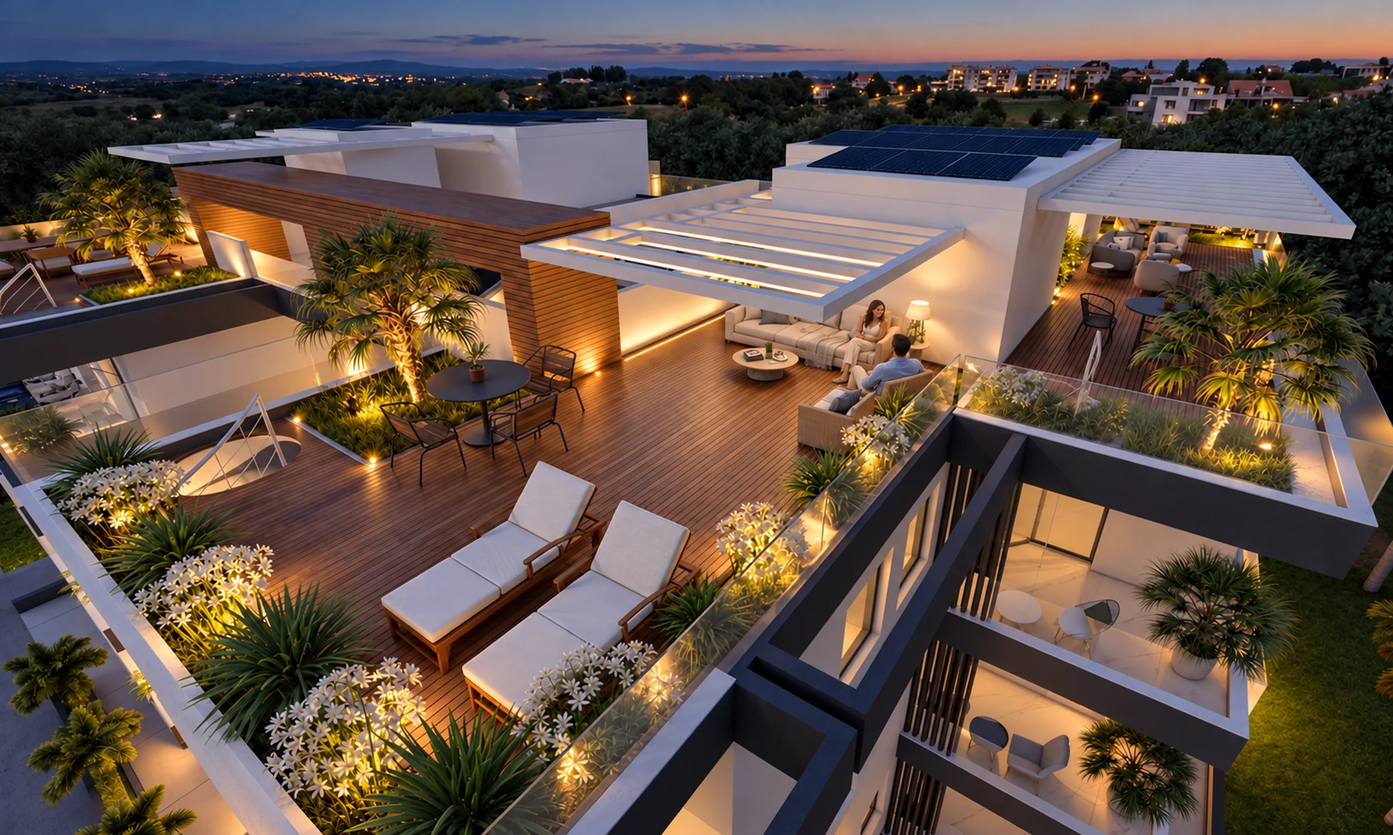
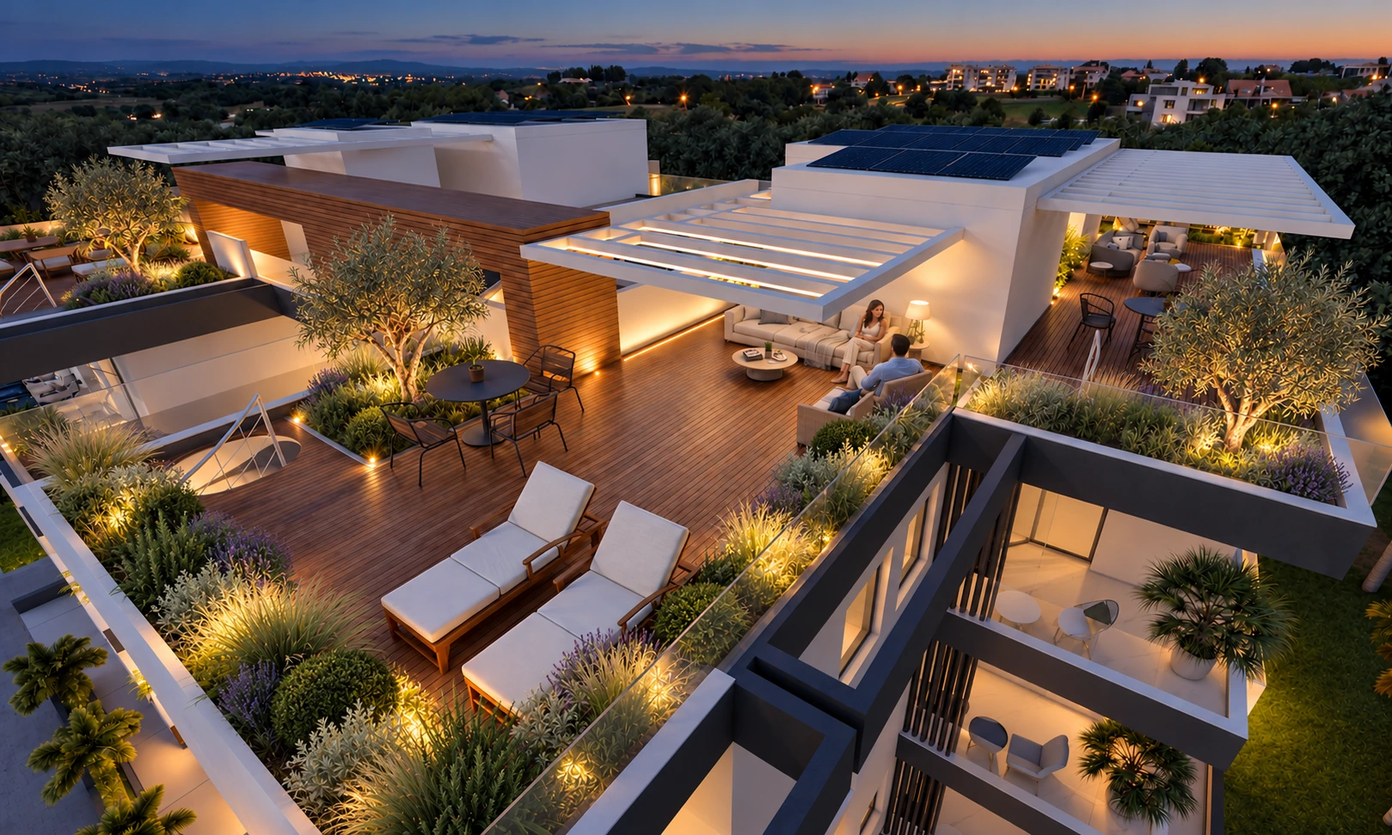
Finalize ADMA roof garden with modern planting and two seated residents

diff --git a/apertis/owner/adma-2402/index.html b/apertis/owner/adma-2402/index.html
@@ -3,7 +3,7 @@
     <h1>ADMA 2402, seen<br>a little differently.</h1>
     <p class="intro">Two enhanced views. Three new frames. A glimpse of how your project could be presented — in images, and in one easy-to-share link.</p>
     <div class="nav-note"><span class="muted">Drag the line to compare</span><a href="#presentation">Explore the presentation idea</a></div>
-    </header><p class="owner-nav"><a href="/apertis/owner/review-2026-10-14/">Все 10 проектов</a></p><div class="cases"><figure><div class="cmp" style="--ar:1920/1023" role="slider" tabindex="0" aria-label="Frontal exterior and ADMA 2402 fence" aria-valuemin="0" aria-valuemax="100" aria-valuenow="50"><img src="/apertis/assets/261014-ten/adma-2402/01-before.webp" width="1920" height="1023" alt="Frontal exterior and ADMA 2402 fence — Original" class="cmp-img cmp-before"><img src="/apertis/assets/261014-ten/adma-2402/01-after.webp?v=3f0b83cb33d7" width="1717" height="916" alt="Frontal exterior and ADMA 2402 fence — APERTIS" class="cmp-img cmp-after"><span class="cmp-line"><span class="cmp-grip">│</span></span></div><div class="comparison-labels"><span>Original</span><span class="notranslate" translate="no">APERTIS</span></div><figcaption class="caption"><span>Frontal exterior with original ADMA 2402 fence inscription</span><a class="meta" href="/apertis/assets/261014-ten/adma-2402/01-after.jpg?v=9a7d06924ca1" download>Download <span class="notranslate" translate="no">APERTIS</span> · JPG</a></figcaption></figure><figure><div class="cmp" style="--ar:1920/1150" role="slider" tabindex="0" aria-label="Roof terrace — high-angle view" aria-valuemin="0" aria-valuemax="100" aria-valuenow="50"><img src="/apertis/assets/261014-ten/adma-2402/02-before.webp?v=dd2425661433" width="1920" height="1150" alt="Roof terrace — high-angle view — Original" class="cmp-img cmp-before"><img src="/apertis/assets/261014-ten/adma-2402/02-after.webp?v=23255c18ee86" width="1620" height="971" alt="Roof terrace — high-angle view — APERTIS" class="cmp-img cmp-after"><span class="cmp-line"><span class="cmp-grip">│</span></span></div><div class="comparison-labels"><span>Original</span><span class="notranslate" translate="no">APERTIS</span></div><figcaption class="caption"><span>Roof terrace, distinct official high-angle exterior view</span><a class="meta" href="/apertis/assets/261014-ten/adma-2402/02-after.jpg?v=8b7cb5387223" download>Download <span class="notranslate" translate="no">APERTIS</span> · JPG</a></figcaption></figure></div><section class="section" id="new-frames"><div class="section-head"><div><span class="section-no">01 / Beyond the main view</span><h2>More of the story.</h2></div><p>Closer frames developed from your project references. <span class="mobile-hint">Swipe to explore. </span>Open a frame for a closer look.</p></div><div class="story-grid"><button class="story" data-full="/apertis/assets/261014-ten/adma-2402/frame-01.webp" data-caption="Coffee on a palm-framed balcony in the last warm light of the day."><img src="/apertis/assets/261014-ten/adma-2402/frame-01.webp" width="1536" height="1024" alt="Coffee on a palm-framed balcony in the last warm light of the day." loading="lazy"><span>Coffee on a palm-framed balcony in the last warm light of the day.</span><small>Lifestyle study</small></button><button class="story" data-full="/apertis/assets/261014-ten/adma-2402/frame-02.webp" data-caption="Warm light brings out the grain and rhythm of the timber frontage."><img src="/apertis/assets/261014-ten/adma-2402/frame-02.webp" width="1536" height="1024" alt="Warm light brings out the grain and rhythm of the timber frontage." loading="lazy"><span>Warm light brings out the grain and rhythm of the timber frontage.</span><small>Architectural detail</small></button><button class="story" data-full="/apertis/assets/261014-ten/adma-2402/frame-03.webp" data-caption="An evening walk beside the layered planting at the street edge."><img src="/apertis/assets/261014-ten/adma-2402/frame-03.webp" width="1536" height="1024" alt="An evening walk beside the layered planting at the street edge." loading="lazy"><span>An evening walk beside the layered planting at the street edge.</span><small>Lifestyle study</small></button></div><p class="footnote">Image studies: new framings, light and everyday details. Based on the project references; final marketing use follows developer review.</p></section><section class="section" id="presentation"><div class="demo-feature"><div class="demo-copy"><span class="section-no">02 / Make the images easy to share</span><h2>One project.<br>One link to send.</h2><p>Keep images, plans and project details together under your brand. Buyers can open the whole presentation on their phone and forward it in WhatsApp.</p><a class="button" href="/apertis/owner/adma-2402/presentation/">Open the ADMA 2402 example</a><span class="meta">A working preview using existing project materials</span></div><a class="demo-window" href="/apertis/owner/adma-2402/presentation/" aria-label="Open the working ADMA 2402 project presentation"><div class="window-top"><span>ADMA Development</span><span>Project presentation</span></div><div class="window-title">ADMA 2402</div><p class="window-sub">Images · Project details</p><img src="/apertis/assets/261014-ten/adma-2402/01-after.webp?v=3f0b83cb33d7" width="1717" height="916" alt="ADMA 2402 — APERTIS" class="window-hero" loading="lazy"><div class="window-bottom"><span>Explore the spaces</span><span>Project details</span><span>Share one link</span></div></a></div></section><section class="section" id="packages"><div class="section-head"><div><span class="section-no">03 / Take the next step</span><h2>Stronger images.<br>A complete presentation.</h2></div><p>These studies are our introduction. A page for finished materials. Better images for existing sales channels. Or the complete image and presentation kit.</p></div>
+    </header><p class="owner-nav"><a href="/apertis/owner/review-2026-10-14/">Все 10 проектов</a></p><div class="cases"><figure><div class="cmp" style="--ar:1920/1023" role="slider" tabindex="0" aria-label="Frontal exterior and ADMA 2402 fence" aria-valuemin="0" aria-valuemax="100" aria-valuenow="50"><img src="/apertis/assets/261014-ten/adma-2402/01-before.webp" width="1920" height="1023" alt="Frontal exterior and ADMA 2402 fence — Original" class="cmp-img cmp-before"><img src="/apertis/assets/261014-ten/adma-2402/01-after.webp?v=3f0b83cb33d7" width="1717" height="916" alt="Frontal exterior and ADMA 2402 fence — APERTIS" class="cmp-img cmp-after"><span class="cmp-line"><span class="cmp-grip">│</span></span></div><div class="comparison-labels"><span>Original</span><span class="notranslate" translate="no">APERTIS</span></div><figcaption class="caption"><span>Frontal exterior with original ADMA 2402 fence inscription</span><a class="meta" href="/apertis/assets/261014-ten/adma-2402/01-after.jpg?v=9a7d06924ca1" download>Download <span class="notranslate" translate="no">APERTIS</span> · JPG</a></figcaption></figure><figure><div class="cmp" style="--ar:1920/1150" role="slider" tabindex="0" aria-label="Roof terrace — high-angle view" aria-valuemin="0" aria-valuemax="100" aria-valuenow="50"><img src="/apertis/assets/261014-ten/adma-2402/02-before.webp?v=dd2425661433" width="1920" height="1150" alt="Roof terrace — high-angle view — Original" class="cmp-img cmp-before"><img src="/apertis/assets/261014-ten/adma-2402/02-after.webp?v=892a5704fb86" width="1619" height="971" alt="Roof terrace — high-angle view — APERTIS" class="cmp-img cmp-after"><span class="cmp-line"><span class="cmp-grip">│</span></span></div><div class="comparison-labels"><span>Original</span><span class="notranslate" translate="no">APERTIS</span></div><figcaption class="caption"><span>Roof terrace, distinct official high-angle exterior view</span><a class="meta" href="/apertis/assets/261014-ten/adma-2402/02-after.jpg?v=3982a829de46" download>Download <span class="notranslate" translate="no">APERTIS</span> · JPG</a></figcaption></figure></div><section class="section" id="new-frames"><div class="section-head"><div><span class="section-no">01 / Beyond the main view</span><h2>More of the story.</h2></div><p>Closer frames developed from your project references. <span class="mobile-hint">Swipe to explore. </span>Open a frame for a closer look.</p></div><div class="story-grid"><button class="story" data-full="/apertis/assets/261014-ten/adma-2402/frame-01.webp" data-caption="Coffee on a palm-framed balcony in the last warm light of the day."><img src="/apertis/assets/261014-ten/adma-2402/frame-01.webp" width="1536" height="1024" alt="Coffee on a palm-framed balcony in the last warm light of the day." loading="lazy"><span>Coffee on a palm-framed balcony in the last warm light of the day.</span><small>Lifestyle study</small></button><button class="story" data-full="/apertis/assets/261014-ten/adma-2402/frame-02.webp" data-caption="Warm light brings out the grain and rhythm of the timber frontage."><img src="/apertis/assets/261014-ten/adma-2402/frame-02.webp" width="1536" height="1024" alt="Warm light brings out the grain and rhythm of the timber frontage." loading="lazy"><span>Warm light brings out the grain and rhythm of the timber frontage.</span><small>Architectural detail</small></button><button class="story" data-full="/apertis/assets/261014-ten/adma-2402/frame-03.webp" data-caption="An evening walk beside the layered planting at the street edge."><img src="/apertis/assets/261014-ten/adma-2402/frame-03.webp" width="1536" height="1024" alt="An evening walk beside the layered planting at the street edge." loading="lazy"><span>An evening walk beside the layered planting at the street edge.</span><small>Lifestyle study</small></button></div><p class="footnote">Image studies: new framings, light and everyday details. Based on the project references; final marketing use follows developer review.</p></section><section class="section" id="presentation"><div class="demo-feature"><div class="demo-copy"><span class="section-no">02 / Make the images easy to share</span><h2>One project.<br>One link to send.</h2><p>Keep images, plans and project details together under your brand. Buyers can open the whole presentation on their phone and forward it in WhatsApp.</p><a class="button" href="/apertis/owner/adma-2402/presentation/">Open the ADMA 2402 example</a><span class="meta">A working preview using existing project materials</span></div><a class="demo-window" href="/apertis/owner/adma-2402/presentation/" aria-label="Open the working ADMA 2402 project presentation"><div class="window-top"><span>ADMA Development</span><span>Project presentation</span></div><div class="window-title">ADMA 2402</div><p class="window-sub">Images · Project details</p><img src="/apertis/assets/261014-ten/adma-2402/01-after.webp?v=3f0b83cb33d7" width="1717" height="916" alt="ADMA 2402 — APERTIS" class="window-hero" loading="lazy"><div class="window-bottom"><span>Explore the spaces</span><span>Project details</span><span>Share one link</span></div></a></div></section><section class="section" id="packages"><div class="section-head"><div><span class="section-no">03 / Take the next step</span><h2>Stronger images.<br>A complete presentation.</h2></div><p>These studies are our introduction. A page for finished materials. Better images for existing sales channels. Or the complete image and presentation kit.</p></div>
     <div class="offers">
     <article class="offer" data-offer="page"><span class="eyebrow muted">Present existing materials</span><div class="offer-top"><h3>Project page</h3><span class="price">€300</span></div><p>A branded presentation for images that are already ready.</p><ul><li>One ready-to-share project page</li><li>Up to 16 supplied images + 2 plans</li><li>Project details and sales contacts</li><li>Image enhancement is not included</li></ul><a class="button secondary" href="mailto:apertis@a510.space?subject=ADMA%202402%20%E2%80%94%20Project%20page%20%E2%80%94%20%E2%82%AC300&amp;body=Hello%20APERTIS%2C%0A%0AWe%20would%20like%20to%20request%20the%20Project%20page%20package%20%28%E2%82%AC300%29%20for%3A%0AProject%3A%0ANumber%20of%20images%20%28if%20different%20from%20the%20package%29%3A%0ALink%20to%20images%20and%20plans%3A%0ABrand%20and%20contact%20details%3A%0A%0APlease%20confirm%20source%20suitability%2C%20delivery%20date%20and%20payment%20instructions.">Create a project page</a></article>
     <article class="offer main" data-offer="images"><span class="eyebrow muted">Improve existing renders</span><div class="offer-top"><h3>Image enhancement</h3><span class="price">€900</span></div><p>10 existing views, improved with better light, materials and atmosphere. The project’s architecture stays intact.</p><ul><li>10 individually finished images</li><li>High-resolution JPGs + web copies</li><li>One consolidated correction round</li><li>Ready for existing sales channels</li></ul><p class="quantity-note">Price for 10 images. Other quantities can be agreed.</p><a class="button" href="mailto:apertis@a510.space?subject=ADMA%202402%20%E2%80%94%20Image%20enhancement%20%E2%80%94%2010%20images%20%E2%80%94%20%E2%82%AC900&amp;body=Hello%20APERTIS%2C%0A%0AWe%20would%20like%20to%20request%20the%20Image%20enhancement%20%E2%80%94%2010%20images%20package%20%28%E2%82%AC900%29%20for%3A%0AProject%3A%0ANumber%20of%20images%20%28if%20different%20from%20the%20package%29%3A%0ALink%20to%20images%20and%20plans%3A%0ABrand%20and%20contact%20details%3A%0A%0APlease%20confirm%20source%20suitability%2C%20delivery%20date%20and%20payment%20instructions.">Request image enhancement</a></article>

diff --git a/apertis/p/adma-2402/index.html b/apertis/p/adma-2402/index.html
@@ -3,7 +3,7 @@
     <h1>ADMA 2402, seen<br>a little differently.</h1>
     <p class="intro">Two enhanced views. Three new frames. A glimpse of how your project could be presented — in images, and in one easy-to-share link.</p>
     <div class="nav-note"><span class="muted">Drag the line to compare</span><a href="#presentation">Explore the presentation idea</a></div>
-    </header><div class="cases"><figure><div class="cmp" style="--ar:1920/1023" role="slider" tabindex="0" aria-label="Frontal exterior and ADMA 2402 fence" aria-valuemin="0" aria-valuemax="100" aria-valuenow="50"><img src="/apertis/assets/261014-ten/adma-2402/01-before.webp" width="1920" height="1023" alt="Frontal exterior and ADMA 2402 fence — Original" class="cmp-img cmp-before"><img src="/apertis/assets/261014-ten/adma-2402/01-after.webp?v=3f0b83cb33d7" width="1717" height="916" alt="Frontal exterior and ADMA 2402 fence — APERTIS" class="cmp-img cmp-after"><span class="cmp-line"><span class="cmp-grip">│</span></span></div><div class="comparison-labels"><span>Original</span><span class="notranslate" translate="no">APERTIS</span></div><figcaption class="caption"><span>Frontal exterior with original ADMA 2402 fence inscription</span><a class="meta" href="/apertis/assets/261014-ten/adma-2402/01-after.jpg?v=9a7d06924ca1" download>Download <span class="notranslate" translate="no">APERTIS</span> · JPG</a></figcaption></figure><figure><div class="cmp" style="--ar:1920/1150" role="slider" tabindex="0" aria-label="Roof terrace — high-angle view" aria-valuemin="0" aria-valuemax="100" aria-valuenow="50"><img src="/apertis/assets/261014-ten/adma-2402/02-before.webp?v=dd2425661433" width="1920" height="1150" alt="Roof terrace — high-angle view — Original" class="cmp-img cmp-before"><img src="/apertis/assets/261014-ten/adma-2402/02-after.webp?v=23255c18ee86" width="1620" height="971" alt="Roof terrace — high-angle view — APERTIS" class="cmp-img cmp-after"><span class="cmp-line"><span class="cmp-grip">│</span></span></div><div class="comparison-labels"><span>Original</span><span class="notranslate" translate="no">APERTIS</span></div><figcaption class="caption"><span>Roof terrace, distinct official high-angle exterior view</span><a class="meta" href="/apertis/assets/261014-ten/adma-2402/02-after.jpg?v=8b7cb5387223" download>Download <span class="notranslate" translate="no">APERTIS</span> · JPG</a></figcaption></figure></div><section class="section" id="new-frames"><div class="section-head"><div><span class="section-no">01 / Beyond the main view</span><h2>More of the story.</h2></div><p>Closer frames developed from your project references. <span class="mobile-hint">Swipe to explore. </span>Open a frame for a closer look.</p></div><div class="story-grid"><button class="story" data-full="/apertis/assets/261014-ten/adma-2402/frame-01.webp" data-caption="Coffee on a palm-framed balcony in the last warm light of the day."><img src="/apertis/assets/261014-ten/adma-2402/frame-01.webp" width="1536" height="1024" alt="Coffee on a palm-framed balcony in the last warm light of the day." loading="lazy"><span>Coffee on a palm-framed balcony in the last warm light of the day.</span><small>Lifestyle study</small></button><button class="story" data-full="/apertis/assets/261014-ten/adma-2402/frame-02.webp" data-caption="Warm light brings out the grain and rhythm of the timber frontage."><img src="/apertis/assets/261014-ten/adma-2402/frame-02.webp" width="1536" height="1024" alt="Warm light brings out the grain and rhythm of the timber frontage." loading="lazy"><span>Warm light brings out the grain and rhythm of the timber frontage.</span><small>Architectural detail</small></button><button class="story" data-full="/apertis/assets/261014-ten/adma-2402/frame-03.webp" data-caption="An evening walk beside the layered planting at the street edge."><img src="/apertis/assets/261014-ten/adma-2402/frame-03.webp" width="1536" height="1024" alt="An evening walk beside the layered planting at the street edge." loading="lazy"><span>An evening walk beside the layered planting at the street edge.</span><small>Lifestyle study</small></button></div><p class="footnote">Image studies: new framings, light and everyday details. Based on the project references; final marketing use follows developer review.</p></section><section class="section" id="presentation"><div class="demo-feature"><div class="demo-copy"><span class="section-no">02 / Make the images easy to share</span><h2>One project.<br>One link to send.</h2><p>Keep images, plans and project details together under your brand. Buyers can open the whole presentation on their phone and forward it in WhatsApp.</p><a class="button" href="/apertis/p/adma-2402/presentation/">Open the ADMA 2402 example</a><span class="meta">A working preview using existing project materials</span></div><a class="demo-window" href="/apertis/p/adma-2402/presentation/" aria-label="Open the working ADMA 2402 project presentation"><div class="window-top"><span>ADMA Development</span><span>Project presentation</span></div><div class="window-title">ADMA 2402</div><p class="window-sub">Images · Project details</p><img src="/apertis/assets/261014-ten/adma-2402/01-after.webp?v=3f0b83cb33d7" width="1717" height="916" alt="ADMA 2402 — APERTIS" class="window-hero" loading="lazy"><div class="window-bottom"><span>Explore the spaces</span><span>Project details</span><span>Share one link</span></div></a></div></section><section class="section" id="packages"><div class="section-head"><div><span class="section-no">03 / Take the next step</span><h2>Stronger images.<br>A complete presentation.</h2></div><p>These studies are our introduction. A page for finished materials. Better images for existing sales channels. Or the complete image and presentation kit.</p></div>
+    </header><div class="cases"><figure><div class="cmp" style="--ar:1920/1023" role="slider" tabindex="0" aria-label="Frontal exterior and ADMA 2402 fence" aria-valuemin="0" aria-valuemax="100" aria-valuenow="50"><img src="/apertis/assets/261014-ten/adma-2402/01-before.webp" width="1920" height="1023" alt="Frontal exterior and ADMA 2402 fence — Original" class="cmp-img cmp-before"><img src="/apertis/assets/261014-ten/adma-2402/01-after.webp?v=3f0b83cb33d7" width="1717" height="916" alt="Frontal exterior and ADMA 2402 fence — APERTIS" class="cmp-img cmp-after"><span class="cmp-line"><span class="cmp-grip">│</span></span></div><div class="comparison-labels"><span>Original</span><span class="notranslate" translate="no">APERTIS</span></div><figcaption class="caption"><span>Frontal exterior with original ADMA 2402 fence inscription</span><a class="meta" href="/apertis/assets/261014-ten/adma-2402/01-after.jpg?v=9a7d06924ca1" download>Download <span class="notranslate" translate="no">APERTIS</span> · JPG</a></figcaption></figure><figure><div class="cmp" style="--ar:1920/1150" role="slider" tabindex="0" aria-label="Roof terrace — high-angle view" aria-valuemin="0" aria-valuemax="100" aria-valuenow="50"><img src="/apertis/assets/261014-ten/adma-2402/02-before.webp?v=dd2425661433" width="1920" height="1150" alt="Roof terrace — high-angle view — Original" class="cmp-img cmp-before"><img src="/apertis/assets/261014-ten/adma-2402/02-after.webp?v=892a5704fb86" width="1619" height="971" alt="Roof terrace — high-angle view — APERTIS" class="cmp-img cmp-after"><span class="cmp-line"><span class="cmp-grip">│</span></span></div><div class="comparison-labels"><span>Original</span><span class="notranslate" translate="no">APERTIS</span></div><figcaption class="caption"><span>Roof terrace, distinct official high-angle exterior view</span><a class="meta" href="/apertis/assets/261014-ten/adma-2402/02-after.jpg?v=3982a829de46" download>Download <span class="notranslate" translate="no">APERTIS</span> · JPG</a></figcaption></figure></div><section class="section" id="new-frames"><div class="section-head"><div><span class="section-no">01 / Beyond the main view</span><h2>More of the story.</h2></div><p>Closer frames developed from your project references. <span class="mobile-hint">Swipe to explore. </span>Open a frame for a closer look.</p></div><div class="story-grid"><button class="story" data-full="/apertis/assets/261014-ten/adma-2402/frame-01.webp" data-caption="Coffee on a palm-framed balcony in the last warm light of the day."><img src="/apertis/assets/261014-ten/adma-2402/frame-01.webp" width="1536" height="1024" alt="Coffee on a palm-framed balcony in the last warm light of the day." loading="lazy"><span>Coffee on a palm-framed balcony in the last warm light of the day.</span><small>Lifestyle study</small></button><button class="story" data-full="/apertis/assets/261014-ten/adma-2402/frame-02.webp" data-caption="Warm light brings out the grain and rhythm of the timber frontage."><img src="/apertis/assets/261014-ten/adma-2402/frame-02.webp" width="1536" height="1024" alt="Warm light brings out the grain and rhythm of the timber frontage." loading="lazy"><span>Warm light brings out the grain and rhythm of the timber frontage.</span><small>Architectural detail</small></button><button class="story" data-full="/apertis/assets/261014-ten/adma-2402/frame-03.webp" data-caption="An evening walk beside the layered planting at the street edge."><img src="/apertis/assets/261014-ten/adma-2402/frame-03.webp" width="1536" height="1024" alt="An evening walk beside the layered planting at the street edge." loading="lazy"><span>An evening walk beside the layered planting at the street edge.</span><small>Lifestyle study</small></button></div><p class="footnote">Image studies: new framings, light and everyday details. Based on the project references; final marketing use follows developer review.</p></section><section class="section" id="presentation"><div class="demo-feature"><div class="demo-copy"><span class="section-no">02 / Make the images easy to share</span><h2>One project.<br>One link to send.</h2><p>Keep images, plans and project details together under your brand. Buyers can open the whole presentation on their phone and forward it in WhatsApp.</p><a class="button" href="/apertis/p/adma-2402/presentation/">Open the ADMA 2402 example</a><span class="meta">A working preview using existing project materials</span></div><a class="demo-window" href="/apertis/p/adma-2402/presentation/" aria-label="Open the working ADMA 2402 project presentation"><div class="window-top"><span>ADMA Development</span><span>Project presentation</span></div><div class="window-title">ADMA 2402</div><p class="window-sub">Images · Project details</p><img src="/apertis/assets/261014-ten/adma-2402/01-after.webp?v=3f0b83cb33d7" width="1717" height="916" alt="ADMA 2402 — APERTIS" class="window-hero" loading="lazy"><div class="window-bottom"><span>Explore the spaces</span><span>Project details</span><span>Share one link</span></div></a></div></section><section class="section" id="packages"><div class="section-head"><div><span class="section-no">03 / Take the next step</span><h2>Stronger images.<br>A complete presentation.</h2></div><p>These studies are our introduction. A page for finished materials. Better images for existing sales channels. Or the complete image and presentation kit.</p></div>
     <div class="offers">
     <article class="offer" data-offer="page"><span class="eyebrow muted">Present existing materials</span><div class="offer-top"><h3>Project page</h3><span class="price">€300</span></div><p>A branded presentation for images that are already ready.</p><ul><li>One ready-to-share project page</li><li>Up to 16 supplied images + 2 plans</li><li>Project details and sales contacts</li><li>Image enhancement is not included</li></ul><a class="button secondary" href="mailto:apertis@a510.space?subject=ADMA%202402%20%E2%80%94%20Project%20page%20%E2%80%94%20%E2%82%AC300&amp;body=Hello%20APERTIS%2C%0A%0AWe%20would%20like%20to%20request%20the%20Project%20page%20package%20%28%E2%82%AC300%29%20for%3A%0AProject%3A%0ANumber%20of%20images%20%28if%20different%20from%20the%20package%29%3A%0ALink%20to%20images%20and%20plans%3A%0ABrand%20and%20contact%20details%3A%0A%0APlease%20confirm%20source%20suitability%2C%20delivery%20date%20and%20payment%20instructions.">Create a project page</a></article>
     <article class="offer main" data-offer="images"><span class="eyebrow muted">Improve existing renders</span><div class="offer-top"><h3>Image enhancement</h3><span class="price">€900</span></div><p>10 existing views, improved with better light, materials and atmosphere. The project’s architecture stays intact.</p><ul><li>10 individually finished images</li><li>High-resolution JPGs + web copies</li><li>One consolidated correction round</li><li>Ready for existing sales channels</li></ul><p class="quantity-note">Price for 10 images. Other quantities can be agreed.</p><a class="button" href="mailto:apertis@a510.space?subject=ADMA%202402%20%E2%80%94%20Image%20enhancement%20%E2%80%94%2010%20images%20%E2%80%94%20%E2%82%AC900&amp;body=Hello%20APERTIS%2C%0A%0AWe%20would%20like%20to%20request%20the%20Image%20enhancement%20%E2%80%94%2010%20images%20package%20%28%E2%82%AC900%29%20for%3A%0AProject%3A%0ANumber%20of%20images%20%28if%20different%20from%20the%20package%29%3A%0ALink%20to%20images%20and%20plans%3A%0ABrand%20and%20contact%20details%3A%0A%0APlease%20confirm%20source%20suitability%2C%20delivery%20date%20and%20payment%20instructions.">Request image enhancement</a></article>

diff --git a/apertis/owner/adma-2402/presentation/index.html b/apertis/owner/adma-2402/presentation/index.html
@@ -1,1 +1,1 @@
-<!doctype html><html lang="en"><head><meta charset="utf-8"><meta name="viewport" content="width=device-width,initial-scale=1"><meta name="robots" content="noindex,nofollow"><meta http-equiv="Content-Security-Policy" content="default-src 'none'; img-src 'self'; style-src 'self' 'unsafe-inline'; script-src 'self'; connect-src 'none'; base-uri 'none'; form-action 'none'"><title>ADMA 2402 — presentation example | APERTIS</title><link rel="icon" href="/favicon.ico"><link rel="icon" href="/icon.svg" type="image/svg+xml"><link rel="stylesheet" href="/apertis/assets/261014-ten/full-design.css"></head><body><div class="demo-badge">Presentation example · Not a live sales listing <a href="/apertis/owner/adma-2402/">Back to the <span class="notranslate" translate="no">APERTIS</span> proposal</a></div><div class="page"><header class="buyer-head"><div class="rule"><span class="buyer-brand">ADMA Development</span><nav class="buyer-nav"><a href="#spaces">Images</a><a href="#details">Details</a></nav></div><h1>ADMA 2402</h1><p class="intro">Larnaca</p></header><img src="/apertis/assets/261014-ten/adma-2402/01-after.webp?v=3f0b83cb33d7" width="1717" height="916" alt="ADMA 2402 — APERTIS" class="buyer-hero"><div class="buyer-intro"><p>ADMA 2402 is an 18-home residential development in Larnaca. These views show the street-facing elevation and a separate high-angle view of the roof terrace.</p></div><section class="section" id="spaces"><div class="section-head"><div><span class="section-no">01 / The project in images</span><h2>Explore the spaces.</h2></div><p><span class="notranslate" translate="no">APERTIS</span> AI-enhanced views based on the developer’s project gallery.</p></div><div class="buyer-gallery"><figure><img src="/apertis/assets/261014-ten/adma-2402/01-after.webp?v=3f0b83cb33d7" width="1717" height="916" alt="Frontal exterior and ADMA 2402 fence" loading="lazy"><figcaption>Frontal exterior and ADMA 2402 fence · <span class="notranslate" translate="no">APERTIS</span> AI-enhanced study</figcaption></figure><figure><img src="/apertis/assets/261014-ten/adma-2402/02-after.webp?v=23255c18ee86" width="1620" height="971" alt="Roof terrace — high-angle view" loading="lazy"><figcaption>Roof terrace — high-angle view · <span class="notranslate" translate="no">APERTIS</span> AI-enhanced study</figcaption></figure></div></section><section class="section" id="details"><div class="section-head"><div><span class="section-no">02 / Project details</span><h2>Larnaca</h2></div><p>The supplied official project research records construction in progress and an advertised January 2027 delivery target. Nine homes were available, one reserved and eight sold at that check. These figures are not a live inventory. Research supplied for this review; source recheck attempted 2026-10-14. Current availability and dates require developer confirmation.</p></div><a href="https://admadevelopment.com/current-project" target="_blank" rel="noopener">View the official project information</a></section><section class="section" id="share"><div class="section-head"><div><span class="section-no">03 / One link</span><h2>Keep the presentation together.</h2></div><p>A published presentation brings images, project details, supplied plans and sales contacts into one link that can be forwarded in WhatsApp.</p></div><p class="footnote">This is an independent <span class="notranslate" translate="no">APERTIS</span> example, not an approved developer campaign. Enquiries are disabled.</p></section><div class="contact-demo"><span class="eyebrow">Your sales contact, in the same place</span><p>This example is not accepting enquiries. A commissioned presentation includes the contact details and enquiry links you approve.</p></div><footer><div class="footer-row"><span>ADMA Development / ADMA 2402</span><a href="/apertis/owner/adma-2402/">Presentation by <span class="notranslate" translate="no">APERTIS</span></a></div><p>Independent demonstration using <span class="notranslate" translate="no">APERTIS</span> AI-enhanced studies based on original project materials. These are visualisations, not photographs of completed buildings. Images and plans belong to their respective rights holders. Not an approved campaign.</p></footer></div><script src="/apertis/assets/261014-ten/full-design.js"></script></body></html>
+<!doctype html><html lang="en"><head><meta charset="utf-8"><meta name="viewport" content="width=device-width,initial-scale=1"><meta name="robots" content="noindex,nofollow"><meta http-equiv="Content-Security-Policy" content="default-src 'none'; img-src 'self'; style-src 'self' 'unsafe-inline'; script-src 'self'; connect-src 'none'; base-uri 'none'; form-action 'none'"><title>ADMA 2402 — presentation example | APERTIS</title><link rel="icon" href="/favicon.ico"><link rel="icon" href="/icon.svg" type="image/svg+xml"><link rel="stylesheet" href="/apertis/assets/261014-ten/full-design.css"></head><body><div class="demo-badge">Presentation example · Not a live sales listing <a href="/apertis/owner/adma-2402/">Back to the <span class="notranslate" translate="no">APERTIS</span> proposal</a></div><div class="page"><header class="buyer-head"><div class="rule"><span class="buyer-brand">ADMA Development</span><nav class="buyer-nav"><a href="#spaces">Images</a><a href="#details">Details</a></nav></div><h1>ADMA 2402</h1><p class="intro">Larnaca</p></header><img src="/apertis/assets/261014-ten/adma-2402/01-after.webp?v=3f0b83cb33d7" width="1717" height="916" alt="ADMA 2402 — APERTIS" class="buyer-hero"><div class="buyer-intro"><p>ADMA 2402 is an 18-home residential development in Larnaca. These views show the street-facing elevation and a separate high-angle view of the roof terrace.</p></div><section class="section" id="spaces"><div class="section-head"><div><span class="section-no">01 / The project in images</span><h2>Explore the spaces.</h2></div><p><span class="notranslate" translate="no">APERTIS</span> AI-enhanced views based on the developer’s project gallery.</p></div><div class="buyer-gallery"><figure><img src="/apertis/assets/261014-ten/adma-2402/01-after.webp?v=3f0b83cb33d7" width="1717" height="916" alt="Frontal exterior and ADMA 2402 fence" loading="lazy"><figcaption>Frontal exterior and ADMA 2402 fence · <span class="notranslate" translate="no">APERTIS</span> AI-enhanced study</figcaption></figure><figure><img src="/apertis/assets/261014-ten/adma-2402/02-after.webp?v=892a5704fb86" width="1619" height="971" alt="Roof terrace — high-angle view" loading="lazy"><figcaption>Roof terrace — high-angle view · <span class="notranslate" translate="no">APERTIS</span> AI-enhanced study</figcaption></figure></div></section><section class="section" id="details"><div class="section-head"><div><span class="section-no">02 / Project details</span><h2>Larnaca</h2></div><p>The supplied official project research records construction in progress and an advertised January 2027 delivery target. Nine homes were available, one reserved and eight sold at that check. These figures are not a live inventory. Research supplied for this review; source recheck attempted 2026-10-14. Current availability and dates require developer confirmation.</p></div><a href="https://admadevelopment.com/current-project" target="_blank" rel="noopener">View the official project information</a></section><section class="section" id="share"><div class="section-head"><div><span class="section-no">03 / One link</span><h2>Keep the presentation together.</h2></div><p>A published presentation brings images, project details, supplied plans and sales contacts into one link that can be forwarded in WhatsApp.</p></div><p class="footnote">This is an independent <span class="notranslate" translate="no">APERTIS</span> example, not an approved developer campaign. Enquiries are disabled.</p></section><div class="contact-demo"><span class="eyebrow">Your sales contact, in the same place</span><p>This example is not accepting enquiries. A commissioned presentation includes the contact details and enquiry links you approve.</p></div><footer><div class="footer-row"><span>ADMA Development / ADMA 2402</span><a href="/apertis/owner/adma-2402/">Presentation by <span class="notranslate" translate="no">APERTIS</span></a></div><p>Independent demonstration using <span class="notranslate" translate="no">APERTIS</span> AI-enhanced studies based on original project materials. These are visualisations, not photographs of completed buildings. Images and plans belong to their respective rights holders. Not an approved campaign.</p></footer></div><script src="/apertis/assets/261014-ten/full-design.js"></script></body></html>

diff --git a/apertis/p/adma-2402/presentation/index.html b/apertis/p/adma-2402/presentation/index.html
@@ -1,1 +1,1 @@
-<!doctype html><html lang="en"><head><meta charset="utf-8"><meta name="viewport" content="width=device-width,initial-scale=1"><meta name="robots" content="noindex,nofollow"><meta http-equiv="Content-Security-Policy" content="default-src 'none'; img-src 'self'; style-src 'self' 'unsafe-inline'; script-src 'self'; connect-src 'none'; base-uri 'none'; form-action 'none'"><title>ADMA 2402 — presentation example | APERTIS</title><link rel="icon" href="/favicon.ico"><link rel="icon" href="/icon.svg" type="image/svg+xml"><link rel="stylesheet" href="/apertis/assets/261014-ten/full-design.css"></head><body><div class="demo-badge">Presentation example · Not a live sales listing <a href="/apertis/p/adma-2402/">Back to the <span class="notranslate" translate="no">APERTIS</span> proposal</a></div><div class="page"><header class="buyer-head"><div class="rule"><span class="buyer-brand">ADMA Development</span><nav class="buyer-nav"><a href="#spaces">Images</a><a href="#details">Details</a></nav></div><h1>ADMA 2402</h1><p class="intro">Larnaca</p></header><img src="/apertis/assets/261014-ten/adma-2402/01-after.webp?v=3f0b83cb33d7" width="1717" height="916" alt="ADMA 2402 — APERTIS" class="buyer-hero"><div class="buyer-intro"><p>ADMA 2402 is an 18-home residential development in Larnaca. These views show the street-facing elevation and a separate high-angle view of the roof terrace.</p></div><section class="section" id="spaces"><div class="section-head"><div><span class="section-no">01 / The project in images</span><h2>Explore the spaces.</h2></div><p><span class="notranslate" translate="no">APERTIS</span> AI-enhanced views based on the developer’s project gallery.</p></div><div class="buyer-gallery"><figure><img src="/apertis/assets/261014-ten/adma-2402/01-after.webp?v=3f0b83cb33d7" width="1717" height="916" alt="Frontal exterior and ADMA 2402 fence" loading="lazy"><figcaption>Frontal exterior and ADMA 2402 fence · <span class="notranslate" translate="no">APERTIS</span> AI-enhanced study</figcaption></figure><figure><img src="/apertis/assets/261014-ten/adma-2402/02-after.webp?v=23255c18ee86" width="1620" height="971" alt="Roof terrace — high-angle view" loading="lazy"><figcaption>Roof terrace — high-angle view · <span class="notranslate" translate="no">APERTIS</span> AI-enhanced study</figcaption></figure></div></section><section class="section" id="details"><div class="section-head"><div><span class="section-no">02 / Project details</span><h2>Larnaca</h2></div><p>The supplied official project research records construction in progress and an advertised January 2027 delivery target. Nine homes were available, one reserved and eight sold at that check. These figures are not a live inventory. Research supplied for this review; source recheck attempted 2026-10-14. Current availability and dates require developer confirmation.</p></div><a href="https://admadevelopment.com/current-project" target="_blank" rel="noopener">View the official project information</a></section><section class="section" id="share"><div class="section-head"><div><span class="section-no">03 / One link</span><h2>Keep the presentation together.</h2></div><p>A published presentation brings images, project details, supplied plans and sales contacts into one link that can be forwarded in WhatsApp.</p></div><p class="footnote">This is an independent <span class="notranslate" translate="no">APERTIS</span> example, not an approved developer campaign. Enquiries are disabled.</p></section><div class="contact-demo"><span class="eyebrow">Your sales contact, in the same place</span><p>This example is not accepting enquiries. A commissioned presentation includes the contact details and enquiry links you approve.</p></div><footer><div class="footer-row"><span>ADMA Development / ADMA 2402</span><a href="/apertis/p/adma-2402/">Presentation by <span class="notranslate" translate="no">APERTIS</span></a></div><p>Independent demonstration using <span class="notranslate" translate="no">APERTIS</span> AI-enhanced studies based on original project materials. These are visualisations, not photographs of completed buildings. Images and plans belong to their respective rights holders. Not an approved campaign.</p></footer></div><script src="/apertis/assets/261014-ten/full-design.js"></script></body></html>
+<!doctype html><html lang="en"><head><meta charset="utf-8"><meta name="viewport" content="width=device-width,initial-scale=1"><meta name="robots" content="noindex,nofollow"><meta http-equiv="Content-Security-Policy" content="default-src 'none'; img-src 'self'; style-src 'self' 'unsafe-inline'; script-src 'self'; connect-src 'none'; base-uri 'none'; form-action 'none'"><title>ADMA 2402 — presentation example | APERTIS</title><link rel="icon" href="/favicon.ico"><link rel="icon" href="/icon.svg" type="image/svg+xml"><link rel="stylesheet" href="/apertis/assets/261014-ten/full-design.css"></head><body><div class="demo-badge">Presentation example · Not a live sales listing <a href="/apertis/p/adma-2402/">Back to the <span class="notranslate" translate="no">APERTIS</span> proposal</a></div><div class="page"><header class="buyer-head"><div class="rule"><span class="buyer-brand">ADMA Development</span><nav class="buyer-nav"><a href="#spaces">Images</a><a href="#details">Details</a></nav></div><h1>ADMA 2402</h1><p class="intro">Larnaca</p></header><img src="/apertis/assets/261014-ten/adma-2402/01-after.webp?v=3f0b83cb33d7" width="1717" height="916" alt="ADMA 2402 — APERTIS" class="buyer-hero"><div class="buyer-intro"><p>ADMA 2402 is an 18-home residential development in Larnaca. These views show the street-facing elevation and a separate high-angle view of the roof terrace.</p></div><section class="section" id="spaces"><div class="section-head"><div><span class="section-no">01 / The project in images</span><h2>Explore the spaces.</h2></div><p><span class="notranslate" translate="no">APERTIS</span> AI-enhanced views based on the developer’s project gallery.</p></div><div class="buyer-gallery"><figure><img src="/apertis/assets/261014-ten/adma-2402/01-after.webp?v=3f0b83cb33d7" width="1717" height="916" alt="Frontal exterior and ADMA 2402 fence" loading="lazy"><figcaption>Frontal exterior and ADMA 2402 fence · <span class="notranslate" translate="no">APERTIS</span> AI-enhanced study</figcaption></figure><figure><img src="/apertis/assets/261014-ten/adma-2402/02-after.webp?v=892a5704fb86" width="1619" height="971" alt="Roof terrace — high-angle view" loading="lazy"><figcaption>Roof terrace — high-angle view · <span class="notranslate" translate="no">APERTIS</span> AI-enhanced study</figcaption></figure></div></section><section class="section" id="details"><div class="section-head"><div><span class="section-no">02 / Project details</span><h2>Larnaca</h2></div><p>The supplied official project research records construction in progress and an advertised January 2027 delivery target. Nine homes were available, one reserved and eight sold at that check. These figures are not a live inventory. Research supplied for this review; source recheck attempted 2026-10-14. Current availability and dates require developer confirmation.</p></div><a href="https://admadevelopment.com/current-project" target="_blank" rel="noopener">View the official project information</a></section><section class="section" id="share"><div class="section-head"><div><span class="section-no">03 / One link</span><h2>Keep the presentation together.</h2></div><p>A published presentation brings images, project details, supplied plans and sales contacts into one link that can be forwarded in WhatsApp.</p></div><p class="footnote">This is an independent <span class="notranslate" translate="no">APERTIS</span> example, not an approved developer campaign. Enquiries are disabled.</p></section><div class="contact-demo"><span class="eyebrow">Your sales contact, in the same place</span><p>This example is not accepting enquiries. A commissioned presentation includes the contact details and enquiry links you approve.</p></div><footer><div class="footer-row"><span>ADMA Development / ADMA 2402</span><a href="/apertis/p/adma-2402/">Presentation by <span class="notranslate" translate="no">APERTIS</span></a></div><p>Independent demonstration using <span class="notranslate" translate="no">APERTIS</span> AI-enhanced studies based on original project materials. These are visualisations, not photographs of completed buildings. Images and plans belong to their respective rights holders. Not an approved campaign.</p></footer></div><script src="/apertis/assets/261014-ten/full-design.js"></script></body></html>
